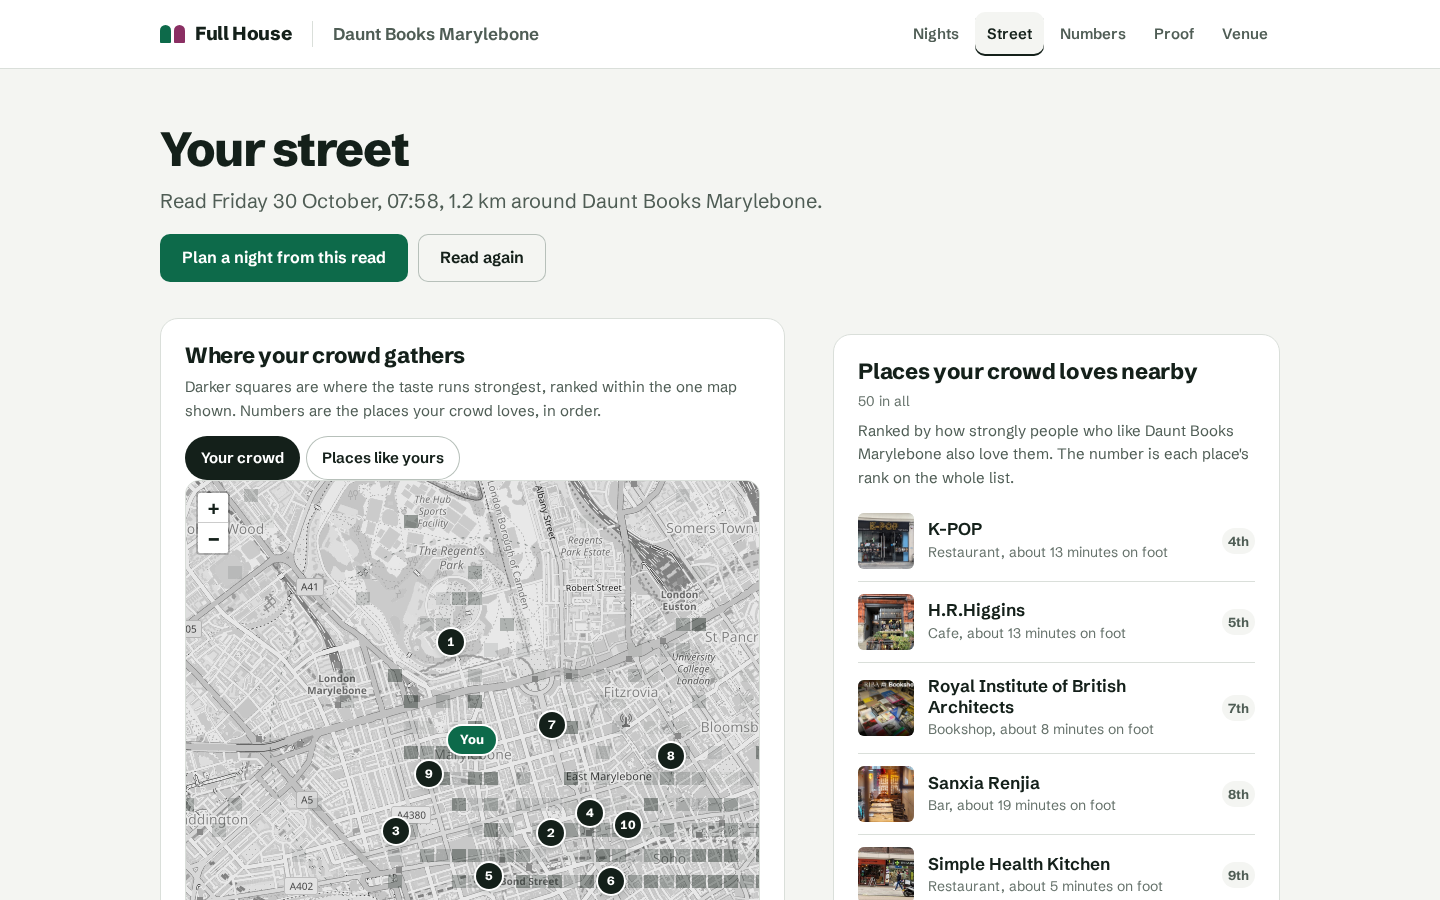
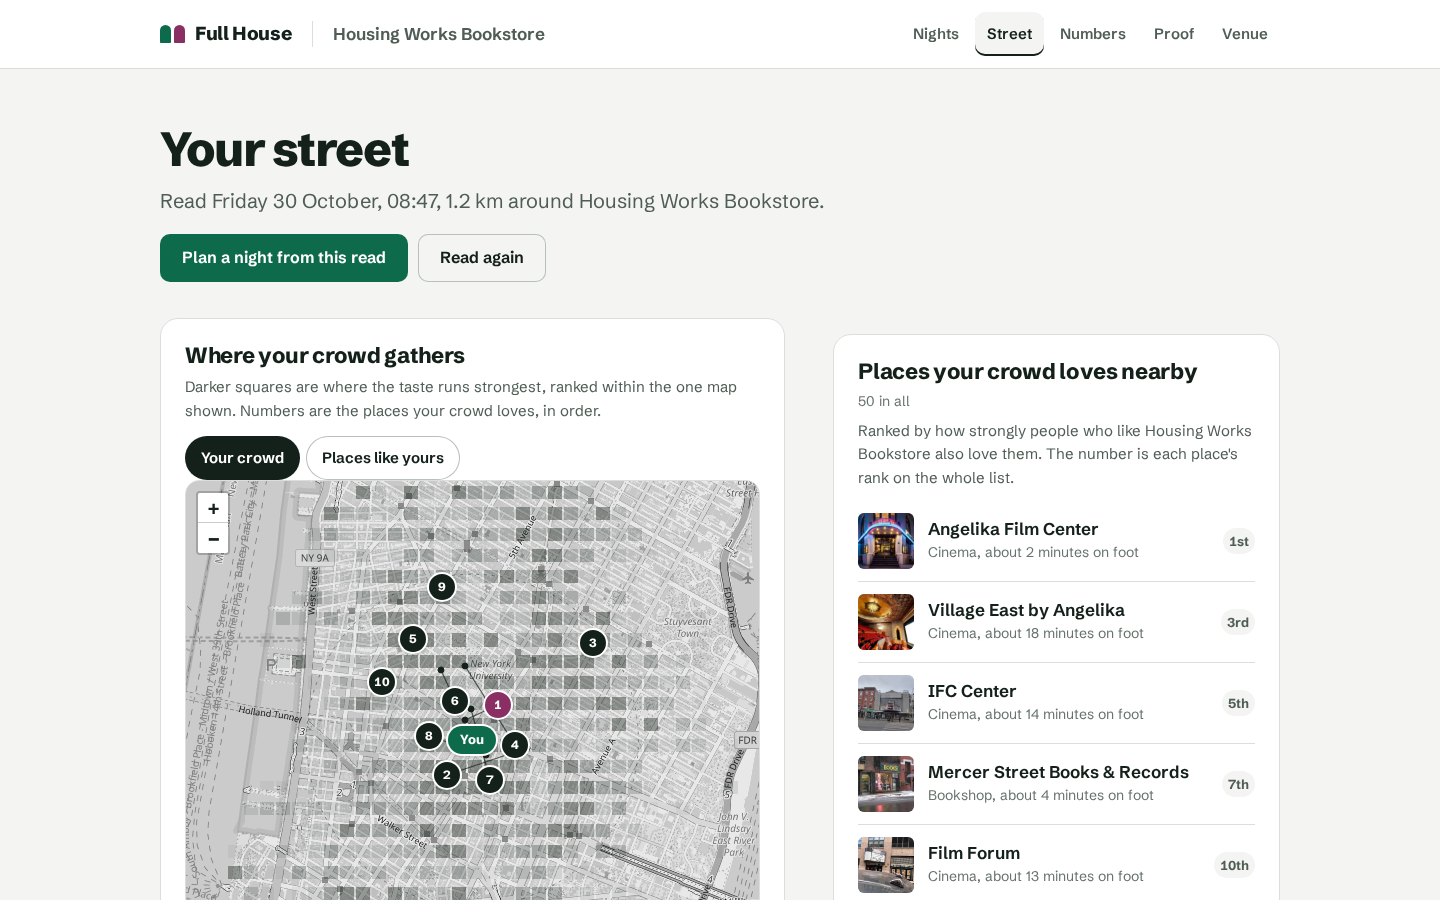
readme and screenshots for the final version

diff --git a/README.md b/README.md
@@ -1,64 +1,74 @@
 # Full House
 
-Full House finds the place down the street whose customers already love your venue, checks that its customers love you back, and plans one night that walks both crowds through both doors.
+Full House finds the place down the street your crowd already loves, checks that its crowd loves you back, and sets up one night both owners say yes to.
 
 Live site: https://fullhouse.sampark-bhol.workers.dev
 
-Small venues have nights that die, a Tuesday at the bookshop or a Wednesday at the bar on the corner. A night fills when people already care about it and it runs with a place they already go to. Owners who know each other do this all the time. The hard part is knowing which neighbour shares your customers, whether that crowd likes you back, and what night both would come out for.
+## Why it exists
 
-Qloo knows which places, books, films, shows and artists the same people love. Full House takes those answers and makes the calls an owner would make: which neighbour, what night, which day, and who sent whom.
+A bookshop's Tuesday or a bar's Wednesday fills when people who already care about the place hear about a night that runs with a neighbour they already visit. The hard part is knowing which neighbour shares your customers, whether its crowd likes you back, and what night both would come out for.
+
+The rooms are many and under strain. The UK had 801 grassroots music venues trading in 2025, 30 closed for good and 53 percent made no profit (Music Venue Trust, via Music Week, 21 January 2026). 64 percent of US independent music venues were unprofitable in 2024 (NIVA, via VIP Booking, 24 June 2025). Meanwhile the American Booksellers Association counted 3,783 bookstore locations after 605 new stores in 2025 (Shelf Awareness, 29 May 2026), and 92 percent of English independent bookshops already run events (Booksellers Association and Arts Council England, 13 September 2024). Arts audiences in the US spend 38.46 dollars per person beyond the ticket (Americans for the Arts, 2022 data).
+
+- https://www.musicweek.com/public_html/index.php/live/read/music-venue-trust-175-towns-cities-with-grassroots-venues-no-longer-receive-regular-touring-shows/093415
+- https://www.vip-booking.com/news/ReadNews/General/8832/study-64-of-us-independent-venues-lost-money-in-2024
+- https://shelf-awareness.com/theshelf/2026-05-29/the_aba_annual_meeting_community_forum:_celebrating_a_challenging_banner_year.html
+- https://www.booksellers.org.uk/industryinfo/industryinfo/latestnews/Independent-bookshops-are-a-vital-part-of-England%E2%80%99
+- https://aep6.americansforthearts.org/
+
+To check that pairs exist, the engine ran on 42 independent rooms that run evenings, 21 in Lower Manhattan and Brooklyn and 21 in central and east London, each found by name with Full House's own search. As read from `/api/scan` on 30 October 2026 (record dated 10:50 UTC), all 42 got a partner and 23 got a two way partner within 10 minutes on foot, meaning each place is in the top half of the other's list. The median fit was 78.5 of 100 and the median walk 6.5 minutes. The rooms were picked by name from well known venues, so this shows pairs exist, not that owners want them.
 
 ## What it does
 
-1. Pick your city and type your venue's name. Search looks round the city centre or within a mile of you and ranks by name, then distance.
+1. Pick your city and type your venue's name. Search looks round the city centre or within a mile of you.
 2. Full House reads the street while a map fills with the places your crowd loves.
-3. The partner screen names the neighbour it chose, scores the pair on six checks, and shows Qloo's list with Full House's verdict on each place.
+3. The partner screen names the neighbour it chose, scores the pair on six checks, and gives a verdict on each of Qloo's places.
 4. The night screen plans two stops, one at each place, on a day both are open.
 5. You send the invite link from your own phone. The neighbour sets its own part of the night and answers yes or no.
 6. Your screen flips on the yes. You check the exact words, then publish the event page, a poster and a calendar file.
 7. Each place gets its own sign up link, and every RSVP counts against the link it came through.
-8. Every Monday the venue reads its street again, drafts a fresh night and waits for the owner.
+8. Every Monday the venue reads its street again, drafts a fresh night and waits for the owner. It never publishes on its own.
 
 Any MCP client can run the same flow at `/mcp`, and `/live` shows what the server has done.
 
-The shots are from the live site on 30 October 2026, for Daunt Books Marylebone in London. The venue was deleted afterwards.
+These shots are from the live site on 30 October 2026, for Housing Works Bookstore in New York. The venue was deleted afterwards.
 
 | Screen | What it shows |
 | --- | --- |
-| ![Landing](media/landing.png) | Qloo's list for Housing Works Bookstore, with Full House's verdicts. |
-| ![Search](media/search.png) | Search in London. |
-| ![Your crowd](media/crowd.png) | The places your crowd loves. |
-| ![Partner](media/partner.png) | EtnaCoffee, 11th on Qloo's list, chosen. |
-| ![Partner on a phone](media/partner-phone.png) | The same, on a phone. |
-| ![The night](media/night.png) | Two stops, five minutes apart. |
-| ![Invite](media/invite.png) | The invite as EtnaCoffee sees it. |
+| ![Landing](media/landing.png) | The landing's board of verdicts on Qloo's first six places. |
+| ![Search](media/search.png) | Searching New York by name. |
+| ![Your crowd](media/crowd.png) | The Street tab, the crowd's map and its 50 places. |
+| ![Partner](media/partner.png) | Angelika chosen at 83 of 100, with the board and the checks. |
+| ![Partner on a phone](media/partner-phone.png) | The same board on a phone. |
+| ![The night](media/night.png) | Book then film, two stops 2 minutes apart. |
+| ![Invite](media/invite.png) | The invite as Angelika sees it. |
 | ![Flip](media/flip.png) | The owner's screen after the yes. |
 | ![Event page](media/event.png) | The public event page. |
-| ![Ledger](media/ledger.png) | One RSVP through EtnaCoffee's link. |
+| ![Ledger](media/ledger.png) | One RSVP counted against Angelika's link. |
 
 ## How a pair is chosen
 
-Qloo returns up to 50 places within 1.2 km that people who like your venue also love. Full House keeps Qloo's order as the rank and sets aside closed places, places that cannot host a night (shops, libraries, parks, churches, hotels) and rivals of your own kind. The rest are ordered on what is already known, and the top 8 go on.
+Qloo returns up to 50 places within 1.2 km that people who like your venue also love. Full House keeps Qloo's order as the rank and sets aside closed places, places that cannot host a night (shops, libraries, parks, churches, hotels) and rivals of your own kind. The best 8 of the rest go on.
 
-For each of those 8 it asks Qloo the same question from the other side, with that place as the signal, and looks for your venue in the answer. Daunt Books Marylebone is 17th of the 50 places EtnaCoffee's crowd loves.
+For each of those 8 it asks Qloo the same question from the other side, with that place as the signal, and looks for your venue in the answer. That is the loves you back read. For Housing Works, Angelika is 1st on its list and Housing Works is 6th on Angelika's.
 
-The fit score has six checks. Crowd pull (25 points) is how high the place sits on your crowd's list, and loves you back (25) is where you sit on theirs. Both pass in the top half. Good partners (15) comes from a complement matrix over nine kinds of place: a bookshop and a cinema score 1, a cinema and a theatre 0.8, a cafe and a restaurant 0.5, two of a kind 0. Open together (15) counts the next seven evenings on which both are open at their own stop's time, with half for a late opening or unlisted hours. Close enough to walk (10) is full within 300 m and empty at 1.5 km. Shared taste (10) scores tags both places carry by how rare they are on the street: the lower affinity times the log of one over the share of nearby places with the tag. Tags most of the street carries earn nothing.
+The fit score has six checks. Crowd pull (25 points) is how high the place sits on your crowd's list and loves you back (25) is where you sit on theirs. Good partners (15) comes from a complement matrix over nine kinds of place, where a bookshop and a cinema score 1, a cinema and a theatre 0.8, a cafe and a restaurant 0.5 and two of a kind 0. Open together (15) counts the next seven evenings on which both are open at their own stop's time, with half credit for a late opening or unlisted hours. Close enough to walk (10) is full within 300 m and empty at 1.5 km. Shared taste (10) scores the tags both places carry by how rare they are on the street, so a tag most of the street carries earns nothing. For Housing Works and Angelika that is "classic", carried by 8 of 49 other places nearby, worth 2 of 10.
 
-The highest score wins, unless the next is within 5 points and a shorter walk. A place shut for its part every evening cannot win while another can open.
+The highest score wins, unless the next is within 5 points and a shorter walk. Angelika scored 83, Village East 76 and Film Forum 75.
 
-The partner screen shows Qloo's first 15 places plus every place scored, each with a verdict and a reason from its own numbers. For Daunt it read "Full House chose the 11th of Qloo's 50, EtnaCoffee. The 1st, Park Sports The Regent's Park, is a tennis shop." EtnaCoffee and K-POP both scored 73, and EtnaCoffee won as "5 minutes on foot instead of 13."
+The partner screen shows Qloo's first 15 places plus every place scored, each with a verdict and a reason. For Housing Works the 2nd place is a community garden, the 4th a university library and the 6th a toy shop. For Daunt Books Marylebone in London, Qloo's 1st is a tennis shop and the partner is its 11th.
 
 ## The night
 
-The two kinds of place pick the format: book then film, film then show, screening then drinks, book club then drinks, a listening party at a record shop, coffee or drinks before a live room's own set, show then drinks, a late view at a gallery, or a TV and film quiz crawl. A film is screened only at a cinema, and the playlist plays only in a bar, a record shop or a cafe after 17:00.
+The two kinds of place pick the format, from book then film, screening then drinks and book club then drinks to a listening party at a record shop, coffee before a live room's own set, a late view at a gallery and a quiz crawl. A film is screened only at a cinema, and the playlist plays only in a bar, a record shop or a cafe after 17:00.
 
-The picks come from one Qloo call per kind of pick with both places as the signal and explainability on, so each pick carries each crowd's share. Full House takes picks from the top ten split between 35 and 65, better known first, and drops anything under 0.8 popularity. For a book then film night it finds the book the film was made from.
+The picks come from one Qloo call per kind of pick with both places as the signal and explainability on, so each pick carries each crowd's share. Full House takes picks from the top ten split between 35 and 65, better known first,. For a book then film night it finds the book the film was made from.
 
-The day is the owner's quiet slot when both stops are open at their own times, and a stop counts as open only if it stays open 45 minutes after people arrive. Otherwise it tries the nearest weekday, an hour earlier, the other place first, and last the venue opening late. Daunt closes at 19:30 on Tuesdays and EtnaCoffee at 20:00, so the night runs coffee at EtnaCoffee from 19:00, then a book club on The Possession of Mr Cave at Daunt from 20:15, split 51 to 49 between the crowds.
+The day is the owner's quiet slot when both stops are open at their own times, and a stop counts as open only if it stays open 45 minutes after people arrive. Otherwise the scheduler tries the nearest weekday, an hour earlier, the other place first, and last the venue opening late, and says which. Housing Works closes at 19:00 on Tuesdays, so the night starts at 18:00 with a book club on Beautiful Boy by David Sheff, then the screening at Angelika from 19:15. The crowds' shares of the pick are 51 and 49.
 
 Mistral Small 3.1 24B on Workers AI writes the description and poster lines from a brief of what Qloo returned. A checker rejects copy naming anything not in the brief, and templates step in.
 
-The owner's night page counts RSVPs per link, "From your link 0. From EtnaCoffee's link 1." Public pages show a count only from 3.
+The owner's night page counts RSVPs per link, and public pages show a count only from 3.
 
 ## What Qloo provides
 
@@ -76,7 +86,27 @@ Only the Worker holds the key. The limits are in `src/shared/engine.ts`.
 | The night's picks | `/v2/insights`, both places | 1 to 3 per night |
 | The book behind the film | `/search` | up to 3 per night |
 
-A read makes at most 19 calls under a cap of 30, and a night stays under a cap of 8. The Daunt read made 19 and its night 2. Images come through the Worker, so visitors never talk to Qloo.
+A read makes at most 19 calls under a cap of 30, and a night stays under a cap of 8. The Housing Works read made 19 and its night 5. Images come through the Worker, so visitors never talk to Qloo. Qloo supplies the lists and the shares. The verdicts, checks, matrix, grammar, scheduler and ledger are Full House's own.
+
+## One read, request by request
+
+This is the read for Housing Works Bookstore, from answers Qloo's hackathon API gave on 27 and 29 October 2026 and replayed from a cache on 30 October. Every call is a GET to `https://hackathon.api.qloo.com` with the key in the `X-Api-Key` header, which never appears in the app, the call list or here. `<venue>` is Qloo's own id for Housing Works Bookstore, `<candidate>` the id of a place under test and `<point>` the venue's map point in WKT. Nothing about any customer is sent.
+
+| # | Request | What Full House used | Decision |
+| --- | --- | --- | --- |
+| search | `/search` `query=Housing Works Bookstore Cafe`, `types=urn:entity:place`, `filter.location=40.7128,-74.006`, `filter.radius=8`, `take=20` | 20 places, Housing Works at 126 Crosby St first | A venue is set up only when a second search by the listing's name returns the same id first. |
+| 1 | `/v2/insights` `filter.type=urn:tag`, `signal.location=<point>`, `diversify.by=subtype`, `take=25` | 25 street tags, led by Intimate, Social, Unique | The baseline that makes a shared tag mean something. |
+| 2 | the same with `signal.interests.entities=<venue>`, `take=40` | 40 venue tags, place genres Bar and Book store first | Menu tags are dropped. The two genres feed call 13. |
+| 3 | `/v2/insights` `filter.type=urn:entity:place`, `signal.interests.entities=<venue>`, `filter.exclude.entities=<venue>`, `filter.location=<point>`, `filter.location.radius=1200`, `feature.explainability=true`, `take=50` | 50 places, Angelika 1st at 0.977, 153 m away | Qloo's rank. The board judges every row and 8 candidates go on. |
+| 4 | `/v2/insights` `filter.type=urn:heatmap`, `signal.interests.entities=<venue>`, `filter.location.radius=2000` | 526 squares, the strongest under the shop itself | Draws the map on the Street tab. |
+| 5 to 12 | as call 3 with `signal.interests.entities=<candidate>`, no explainability | Housing Works on each list. Angelika 6th, Village East 9th, Film Forum 11th, IFC Center 15th, Lovers of Today 17th, Roxy 18th, Anthology 22nd, The Greene Space 29th | Loves you back is 25 times 1 minus (rank minus 1) over 50, so Angelika earns 23 of 25. The invite shows Angelika its own first five from this answer. |
+| 13 | `urn:heatmap` with `signal.interests.tags=restaurant:bar,book_store`, `operator.signal.interests.tags=union` | 641 squares | The map's second layer, "Places like yours". |
+| 14 to 18 | `/v2/insights` `filter.type` artist, book, movie, podcast, tv_show, `signal.interests.entities=<venue>`, `signal.location=<point>`, explainability on, `take=10` | First of each, Rina Sawayama, 1919 by Eve L. Ewing, The Farewell, 2 Dope Queens, The Other Two | One of each goes under the pair, the lists to the Street tab. |
+| 19 | `/v2/analysis/compare` with `a.signal.interests.entities=<venue>`, `b.signal.interests.entities=<Angelika>`, `take=20` | One shared tag, "Place", which says nothing | The pair is scored again and the higher score is kept. Here nothing changes. |
+| 20, 21 | `/v2/insights` `filter.type=urn:entity:book` then `urn:entity:movie`, `signal.interests.entities=<venue>,<Angelika>`, explainability on, `take=10` | Books lean to Housing Works, 1919 at 61 to 39. Films run near even, Beautiful Boy among them | Only films filed as based on a book qualify. Three do. |
+| 22 to 24 | `/search` `query=Beautiful Boy`, then `If Beale Street Could Talk`, then `The Hate U Give`, `types=urn:entity:book`, `take=3` | The book behind each film, David Sheff's for Beautiful Boy | Beautiful Boy is the best known, so it is the pick, split 51 to 49. |
+
+The tag calls list five tag types for the street and eight for the venue, which this table shortens. After the calls, nothing goes out until Angelika says yes on its invite page.
 
 ## Run it
 
@@ -103,15 +133,15 @@ npm run check
 npm run e2e
 ```
 
-`check` runs the typecheck and the unit tests, whose fixtures include trimmed real Qloo answers. `e2e` runs Playwright against the fake Qloo server. On 30 October 2026, `npx vitest run --maxWorkers=2` passed 610 tests in 78 files, and `npm run e2e` passed 38 tests in the app project and 1 in the no key project.
+`check` runs the typecheck and the unit tests, whose fixtures include trimmed real Qloo answers. `e2e` runs Playwright against the fake Qloo server. On 30 October 2026, `npx vitest run --maxWorkers=2` passed 639 tests in 87 files, and `npm run e2e` passed 40 tests in the app project and 1 in the no key project.
 
 ## Privacy
 
-Qloo receives your venue as a public place, ids it returned itself, names typed into search, and on the Proof tab the places a plain language model suggested, only to check they exist. Nothing about customers is sent. Your position from "use my location" finds your venue and is never stored.
+Qloo receives your venue as a public place, ids it returned itself, names typed into search, and on the Proof tab the places a plain language model suggested, only to check they exist. Nothing about customers is sent. A position from "use my location" is never stored.
 
-A partner is never named on a night's event page, poster or calendar file before it says yes on its own invite page, and the landing marks its example as a pair not yet agreed. It first sets its own part: what runs there, when it starts, and whether it is open that evening. The event page says how the yes was given, for example "EtnaCoffee answered through an invite link. Its stop is proposed, subject to its own programme." The owner approves every night, and the Monday run never publishes.
+A partner is never named on a night's event page, poster or calendar file before it says yes on its own invite page. The partner sets its own part first, what runs there, when, and whether it is open. The event page says how the yes was given, for example "Angelika Film Center answered through an invite link and accepted the proposed screening of Beautiful Boy from 19:15." The owner approves every night, and the Monday run never publishes.
 
-On the hosted demo, email is off, so no venue can confirm an address on its own website and every venue shows as unconfirmed.
+On the hosted demo email is off, so venues show as unconfirmed.
 
 A venue nobody opens for 8 weeks stops its Monday runs and is deleted after 6 months.
 
